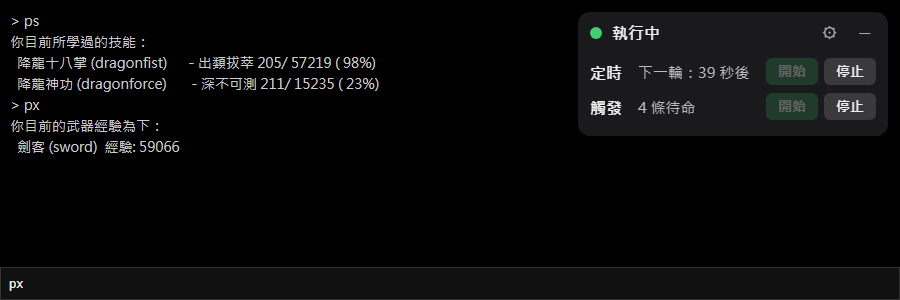
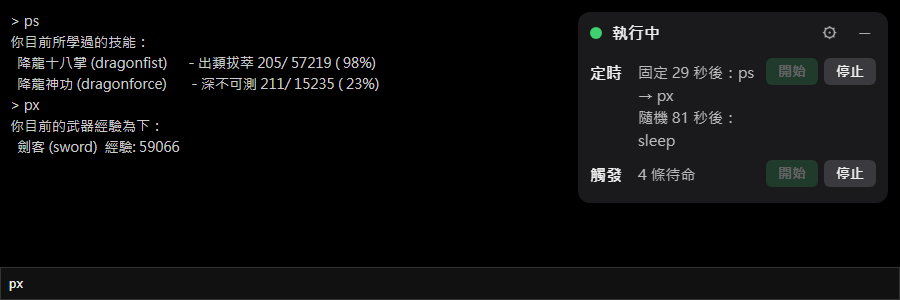
Per-command random timing and panel countdown with commands (v1.16.0)
- Random commands: each one has its own min/max seconds. Pick one uniformly
  at random, wait that command's own time, then send it, then pick again.
  Old settings (one command per line + shared seconds) are converted
  automatically; new timer-settings.js is shared by content script and popup
- Floating panel shows the countdown together with what will run: fixed
  commands ("固定 31 秒後：ps → px"), the picked random command, and each
  trigger rule waiting out its hit delay ("飲水 ≤ 200 → 3 秒後：drink")
- popup timer tab countdown includes the fixed command list; rule badge
  shows the commands of a pending hit
- Do not put randomItems in the default settings: an empty array would
  shadow the legacy fields and drop the user's saved random commands

Claude-Session: https://claude.ai/code/session_01W8X4W8aFUV8Mt9HS3hvUDu

diff --git a/catworld-auto-command/content.js b/catworld-auto-command/content.js
@@ -10,6 +10,7 @@ let lastSentAt = 0;
 let stopReason = '';
 let nextRunAt = null;
 let nextRandomAt = null;
+let nextRandomCommand = null;
 // 狀態觸發與定時循環各有獨立開關；驗證碼偵測、看門狗、送出佇列在任一個開著時都要作用
 let triggersOn = false;
 let triggerTimer = null;
@@ -225,11 +226,11 @@ let settings = {
   commands: ['ps', 'px'],
   minSeconds: 30,
   maxSeconds: 40,
-  commandDelayMs: 500,
-  randomCommands: [],
-  randomMinSeconds: 30,
-  randomMaxSeconds: 40
+  commandDelayMs: 500
+  // randomItems 不放預設值：沒有這個欄位時，normalizeRandomItems 才會去讀舊格式（randomCommands），
+  // 預設成空陣列會蓋掉升級前存下的隨機指令
 };
+const randomItems = () => CatworldTimer.normalizeRandomItems(settings);
 
 function sendCommand(command) {
   if (checkCaptcha()) return { ok: false, error: stopReason };
@@ -250,6 +251,7 @@ function sendCommand(command) {
 function clearTimers() {
   nextRunAt = null;
   nextRandomAt = null;
+  nextRandomCommand = null;
   if (loopTimer) clearTimeout(loopTimer);
   if (queueTimer) clearTimeout(queueTimer);
   if (randomTimer) clearTimeout(randomTimer);
@@ -308,19 +310,20 @@ function runRound() {
   scheduleNextRound();
 }
 
+// 隨機指令：先均勻隨機挑一個，再在「它自己的」最短～最長秒數之間隨機等一段時間，到時間才送出，然後再挑下一個
 function scheduleRandomCommand() {
   if (!running) return;
-  const min = Math.max(1, Number(settings.randomMinSeconds) || 30);
-  const max = Math.max(min, Number(settings.randomMaxSeconds) || min);
-  const delay = (min + Math.random() * (max - min)) * 1000;
-  randomTimer = setTimeout(runRandomCommand, delay);
+  const item = CatworldTimer.pickRandomItem(randomItems());
+  if (!item) return;
+  const delay = CatworldTimer.delayMs(item);
+  randomTimer = setTimeout(() => runRandomCommand(item.command), delay);
   nextRandomAt = Date.now() + delay;
+  nextRandomCommand = item.command;
 }
 
-function runRandomCommand() {
+function runRandomCommand(command) {
   if (!running) return;
-  const pool = settings.randomCommands;
-  enqueue(pool[Math.floor(Math.random() * pool.length)]);
+  enqueue(command);
   scheduleRandomCommand();
 }
 
@@ -342,7 +345,7 @@ async function start(newSettings) {
   running = true;
   await chrome.storage.local.set({ running: true, settings, nextRunAt: null, stopReason: '' });
   if (settings.commands.length) runRound();
-  if (settings.randomCommands.length) scheduleRandomCommand();
+  scheduleRandomCommand();
   renderPanel();
 }
 
@@ -439,7 +442,7 @@ function initPanel() {
       .body { padding: 0 12px 12px; }
       .line { display: flex; align-items: flex-start; gap: 8px; padding: 4px 0; }
       .line .t { font-weight: 600; min-width: 40px; padding-top: 3px; }
-      .line .s { flex: 1; min-width: 0; color: #bbb; font-size: 15px; overflow-wrap: anywhere; padding-top: 4px; }
+      .line .s { flex: 1; min-width: 0; color: #bbb; font-size: 15px; overflow-wrap: anywhere; white-space: pre-line; padding-top: 4px; }
       .line .s.alert { color: #ff8a7a; }
       .mini { display: flex; gap: 6px; flex: none; }
       .mini button { all: unset; text-align: center; padding: 3px 12px; border-radius: 6px;
@@ -468,7 +471,7 @@ function initPanel() {
   root.addEventListener('mousedown', e => e.preventDefault());
   panel.start.addEventListener('click', () => {
     if (running) return;
-    if (!settings.commands.length && !settings.randomCommands.length) {
+    if (!settings.commands.length && !randomItems().length) {
       stop('尚未設定指令，請先在 popup 設定');
       return;
     }
@@ -582,6 +585,11 @@ function triggerSummary() {
   const rules = triggerEngine.snapshot().rules.filter(rule => rule.phase !== 'off');
   const disabled = rules.filter(rule => rule.phase === 'disabled');
   if (disabled.length) return { text: `「${disabled[0].label}」${disabled[0].text}`, alert: true, disabled: disabled.length };
+  // 命中後等待延遲的規則：每條一行，顯示還有幾秒、要執行哪些指令
+  const pending = rules.filter(rule => rule.pendingSeconds !== null);
+  if (pending.length) {
+    return { text: pending.map(rule => `${rule.label} → ${rule.pendingSeconds} 秒後：${rule.commands.join(' → ')}`).join('\n'), alert: false, disabled: 0 };
+  }
   const waiting = rules.find(rule => rule.phase === 'waiting');
   if (waiting) return { text: `${waiting.label} → ${waiting.text}`, alert: false, disabled: 0 };
   return { text: `${rules.length} 條待命`, alert: false, disabled: 0 };
@@ -595,7 +603,13 @@ function renderPanel() {
   panel.label.textContent = trigger.alert ? `觸發已停用 ${trigger.disabled} 條` : active() ? '執行中' : '已停止';
   let timerText = stopReason || '未啟動';
   if (running) {
-    timerText = nextRunAt ? `下一輪：${Math.max(0, Math.ceil((nextRunAt - Date.now()) / 1000))} 秒後` : '指令送出中…';
+    // 倒數與「到時候要執行哪些指令」：固定指令一輪依序送出，隨機指令是被挑中的那一個
+    const left = at => `${Math.max(0, Math.ceil((at - Date.now()) / 1000))} 秒後`;
+    const fixed = settings.commands.map(command => command.trim()).filter(Boolean);
+    const lines = [];
+    if (fixed.length) lines.push(nextRunAt ? `固定 ${left(nextRunAt)}：${fixed.join(' → ')}` : '固定 送出中…');
+    if (nextRandomAt) lines.push(`隨機 ${left(nextRandomAt)}：${nextRandomCommand}`);
+    timerText = lines.join('\n') || '執行中';
   }
   if (panel.timerText.textContent !== timerText || panel.triggerText.textContent !== trigger.text) {
     panel.timerText.textContent = timerText;
@@ -640,6 +654,7 @@ chrome.runtime.onMessage.addListener((message, sender, sendResponse) => {
       stopReason,
       nextRunAt,
       nextRandomAt,
+      nextRandomCommand,
       triggers: { on: triggersOn, note: triggerNote, rules: triggersOn ? triggerEngine.snapshot().rules : [], stats: readAllStats() },
     });
   }

diff --git a/catworld-auto-command/popup.js b/catworld-auto-command/popup.js
@@ -18,13 +18,33 @@ async function getTab() {
   return tab;
 }
 
+// 隨機指令：每個指令一列（指令、最短、最長秒數）
+function randomRow(item) {
+  const command = element('input', { type: 'text', value: item.command, placeholder: '例：look', title: '指令' });
+  const min = element('input', { type: 'number', min: 1, value: item.minSeconds, title: '最短秒數' });
+  const max = element('input', { type: 'number', min: 1, value: item.maxSeconds, title: '最長秒數' });
+  const remove = element('button', { type: 'button', className: 'x', textContent: '✕', title: '刪除這個指令' });
+  const row = element('div', { className: 'ritem' }, field('command', command), field('min', min), field('max', max), remove);
+  remove.addEventListener('click', () => row.remove());
+  return row;
+}
+
+function renderRandomItems(items) {
+  $('randomItems').replaceChildren(...items.map(randomRow));
+}
+
+$('addRandom').addEventListener('click', () => {
+  $('randomItems').append(randomRow({ command: '', minSeconds: CatworldTimer.DEFAULT_MIN, maxSeconds: CatworldTimer.DEFAULT_MAX }));
+});
+
 function readSettings() {
   const lines = id => $(id).value.split('\n').map(x => x.trim()).filter(Boolean);
+  const get = (row, name) => row.querySelector(`[data-f="${name}"]`);
   return {
     commands: lines('commands'),
-    randomCommands: lines('randomCommands'),
-    randomMinSeconds: Number($('randomMinSeconds').value),
-    randomMaxSeconds: Number($('randomMaxSeconds').value),
+    randomItems: [...$('randomItems').children]
+      .map(row => ({ command: get(row, 'command').value.trim(), minSeconds: Number(get(row, 'min').value), maxSeconds: Number(get(row, 'max').value) }))
+      .filter(item => item.command),
     minSeconds: Number($('minSeconds').value),
     maxSeconds: Number($('maxSeconds').value),
     commandDelayMs: Number($('commandDelayMs').value)
@@ -47,7 +67,7 @@ async function send(message) {
     if (String(e?.message || e).includes('Receiving end does not exist')) {
       await chrome.scripting.executeScript({
         target: { tabId: tab.id },
-        files: ['trigger-engine.js', 'content.js']
+        files: ['trigger-engine.js', 'timer-settings.js', 'content.js']
       });
       return await chrome.tabs.sendMessage(tab.id, message);
     }
@@ -58,12 +78,13 @@ async function send(message) {
 $('start').addEventListener('click', async () => {
   try {
     const settings = readSettings();
-    if (!settings.commands.length && !settings.randomCommands.length) throw new Error('至少要有一個指令');
+    if (!settings.commands.length && !settings.randomItems.length) throw new Error('至少要有一個指令');
     if (settings.maxSeconds < settings.minSeconds) throw new Error('最長秒數不能小於最短秒數');
-    if (settings.randomMaxSeconds < settings.randomMinSeconds) throw new Error('隨機指令的最長秒數不能小於最短秒數');
+    const badRandom = settings.randomItems.find(item => item.maxSeconds < item.minSeconds);
+    if (badRandom) throw new Error(`隨機指令「${badRandom.command}」的最長秒數不能小於最短秒數`);
     await chrome.storage.local.set({ settings });
     await send({ type: 'START', settings });
-    const randomText = settings.randomCommands.length ? `；隨機：${settings.randomCommands.join(' / ')}` : '';
+    const randomText = settings.randomItems.length ? `；隨機：${settings.randomItems.map(item => item.command).join(' / ')}` : '';
     setStatus(`執行中：${settings.commands.join(' → ')}${randomText}`);
   } catch (e) { setStatus(e.message); }
 });
@@ -289,8 +310,10 @@ function renderCountdown(status) {
   const parts = [];
   if (status?.running) {
     const settings = status.settings || {};
-    if (settings.commands?.length) parts.push(`固定指令：${status.nextRunAt ? left(status.nextRunAt) : '送出中…'}`);
-    if (settings.randomCommands?.length) parts.push(`隨機指令：${status.nextRandomAt ? left(status.nextRandomAt) : '—'}`);
+    if (settings.commands?.length) parts.push(`固定指令（${settings.commands.join(' → ')}）：${status.nextRunAt ? left(status.nextRunAt) : '送出中…'}`);
+    if (CatworldTimer.normalizeRandomItems(settings).length) {
+      parts.push(`隨機指令：${status.nextRandomAt ? `${status.nextRandomCommand}，${left(status.nextRandomAt)}` : '—'}`);
+    }
   }
   $('countdown').textContent = `下一輪：${parts.length ? parts.join('　') : '—'}`;
 }
@@ -326,10 +349,9 @@ async function refreshLive() {
     $('minSeconds').value = data.settings.minSeconds ?? 30;
     $('maxSeconds').value = data.settings.maxSeconds ?? 40;
     $('commandDelayMs').value = data.settings.commandDelayMs ?? 500;
-    $('randomCommands').value = (data.settings.randomCommands || []).join('\n');
-    $('randomMinSeconds').value = data.settings.randomMinSeconds ?? 30;
-    $('randomMaxSeconds').value = data.settings.randomMaxSeconds ?? 40;
   }
+  // 舊格式（一行一個 + 共用秒數）由 normalizeRandomItems 轉成每個指令一列
+  renderRandomItems(CatworldTimer.normalizeRandomItems(data.settings));
   renderTriggerSettings(data.triggerSettings);
   showTab(data.popupTab === 'trigger' ? 'trigger' : 'timer');
   try {

diff --git a/catworld-auto-command/popup.html b/catworld-auto-command/popup.html
@@ -22,6 +22,10 @@
     .hint { font-size:11px; color:#777; margin-top:8px; line-height:1.4; }
     .hint.tight { margin-top:4px; }
 
+    .ritem { display:grid; grid-template-columns:minmax(0, 1fr) 62px 62px 22px; gap:6px; align-items:center; margin-top:6px; }
+    .ritem input { padding:6px 8px; }
+    .rhead { font-size:11px; color:#777; margin-top:2px; }
+    #addRandom { margin-top:8px; width:100%; background:#f4f4f4; }
     .tabs { display:flex; gap:4px; background:#f0f0f0; border-radius:9px; padding:3px; margin-bottom:10px; }
     .tabs button { padding:6px 0; background:transparent; color:#666; font-size:13px; }
     .tabs button[aria-selected="true"] { background:#fff; color:#222; box-shadow:0 1px 3px rgba(0,0,0,.18); }
@@ -79,12 +83,11 @@ px</textarea>
     </div>
     <label>指令間隔（毫秒）</label>
     <input id="commandDelayMs" type="number" min="0" value="500">
-    <label>隨機指令（一行一個，每次只隨機挑 1 個，獨立計時）</label>
-    <textarea id="randomCommands"></textarea>
-    <div class="row">
-      <div><label>隨機：最短秒數</label><input id="randomMinSeconds" type="number" min="1" value="30"></div>
-      <div><label>隨機：最長秒數</label><input id="randomMaxSeconds" type="number" min="1" value="40"></div>
-    </div>
+    <label>隨機指令（先隨機挑一個，等它自己的時間才送出）</label>
+    <div class="ritem rhead"><span>指令</span><span>最短（秒）</span><span>最長（秒）</span><span></span></div>
+    <div id="randomItems"></div>
+    <button id="addRandom" type="button">＋ 新增隨機指令</button>
+    <p class="hint tight">每個指令被挑中的機率一樣；秒數只決定「挑中它之後要等多久」，到時間才送出，送出後再挑下一個。</p>
     <div class="buttons">
       <button id="start">開始</button><button id="stop">停止</button>
     </div>
@@ -141,6 +144,7 @@ px</textarea>
   <button id="skills">悟招清單（新分頁開啟）</button>
   <div class="hint">新出現「請輸入上面的數字」或「請輸入上方的數字」會立即停止。請先手動完成驗證，再按開始；舊紀錄不會重複觸發。需在 CatWorld Web 分頁使用。重新整理遊戲頁後會自動停止，避免意外持續執行。</div>
   <script src="trigger-engine.js"></script>
+  <script src="timer-settings.js"></script>
   <script src="popup.js"></script>
 </body>
 </html>

diff --git a/catworld-auto-command/timer-settings.js b/catworld-auto-command/timer-settings.js
@@ -1,0 +1,41 @@
+// 定時分頁「隨機指令」的設定與抽選：不碰 DOM，content script 與 popup 共用。
+//
+// 隨機指令每個指令各有一組最短～最長秒數。流程：先從所有隨機指令裡均勻隨機挑一個，
+// 再在「它自己的」最短～最長秒數之間隨機等一段時間，到時間才送出，送出後再挑下一個。
+// 所以每個指令被挑中的機率一樣，秒數只決定「挑中它之後要等多久」。
+//
+// 舊格式（randomCommands 一行一個 + 共用的 randomMinSeconds / randomMaxSeconds）自動轉成每個指令都用那組共用秒數。
+(() => {
+if (globalThis.CatworldTimer) return;
+
+const DEFAULT_MIN = 30;
+const DEFAULT_MAX = 40;
+
+function cleanItem(raw) {
+  const command = String(raw?.command ?? '').trim();
+  if (!command) return null;
+  const minSeconds = Math.max(1, Number(raw.minSeconds) || DEFAULT_MIN);
+  const maxSeconds = Math.max(minSeconds, Number(raw.maxSeconds) || minSeconds);
+  return { command, minSeconds, maxSeconds };
+}
+
+// 回傳 [{ command, minSeconds, maxSeconds }]，沒有指令的列會被濾掉
+function normalizeRandomItems(settings = {}) {
+  if (Array.isArray(settings.randomItems)) return settings.randomItems.map(cleanItem).filter(Boolean);
+  const minSeconds = Number(settings.randomMinSeconds) || DEFAULT_MIN;
+  const maxSeconds = Number(settings.randomMaxSeconds) || DEFAULT_MAX;
+  return (settings.randomCommands || []).map(command => cleanItem({ command, minSeconds, maxSeconds })).filter(Boolean);
+}
+
+// 均勻隨機挑一個；沒有指令回 null
+function pickRandomItem(items, random = Math.random) {
+  return items.length ? items[Math.min(items.length - 1, Math.floor(random() * items.length))] : null;
+}
+
+// 這個指令從「被挑中」到「送出」要等幾毫秒
+function delayMs(item, random = Math.random) {
+  return (item.minSeconds + random() * (item.maxSeconds - item.minSeconds)) * 1000;
+}
+
+globalThis.CatworldTimer = { DEFAULT_MIN, DEFAULT_MAX, normalizeRandomItems, pickRandomItem, delayMs };
+})();

diff --git a/catworld-auto-command/trigger-engine.js b/catworld-auto-command/trigger-engine.js
@@ -264,13 +264,14 @@ function createEngine(rawConfig, io) {
         const fires = recentFires(state, now);
         const keyword = rule.kind === 'keyword';
         const count = config.limitFires ? `${fires}/${config.maxFires}` : `${fires} 次`;
+        const pendingSeconds = state.pendingUntil === null ? null : Math.max(0, Math.ceil((state.pendingUntil - now) / 1000));
         let text;
         if (state.phase === 'off') text = '未啟用';
         else if (state.phase === 'disabled') text = `已停用：${state.note}`;
-        else if (state.pendingUntil !== null) text = `命中，${Math.max(0, Math.ceil((state.pendingUntil - now) / 1000))} 秒後執行`;
+        else if (pendingSeconds !== null) text = `命中，${pendingSeconds} 秒後執行：${rule.commands.join(' → ')}`;
         else if (state.phase === 'waiting') text = keyword ? `已觸發 ${count}，冷卻中` : `已觸發 ${count}，等待回復 ${rearmText(rule)}`;
         else text = state.note || (keyword ? '待命（等待關鍵字）' : `待命（目前 ${shown(rule, state.current)}）`);
-        return { label: ruleLabel(rule), kind: rule.kind, phase: state.phase, text, rearm: keyword ? null : rearmLevel(rule), fires };
+        return { label: ruleLabel(rule), kind: rule.kind, phase: state.phase, text, rearm: keyword ? null : rearmLevel(rule), fires, commands: rule.commands, pendingSeconds };
       }),
     };
   }

diff --git a/CHANGELOG.md b/CHANGELOG.md
@@ -3,6 +3,17 @@
 `catworld-auto-command` 的版本紀錄，新的在上面。版本號規則：新功能升 minor、小修正升 patch。
 日期是 commit 的日期。沒有單獨 commit 的版本，會註明是和哪個版本一起發布的。
 
+## 1.16.0（2026-10-17，與 1.15.0 一起發布）
+
+- **面板顯示倒數與要執行的指令**：「定時」列顯示「固定 31 秒後：ps → px」和「隨機 8 秒後：look」（被挑中的那一個）；「觸發」列在命中後等待延遲時，每條規則一行顯示「飲水 ≤ 200 → 3 秒後：drink」。popup 定時分頁的倒數也帶上固定指令的內容，規則旁的標籤顯示「命中，3 秒後執行：drink」。
+
+## 1.15.0（2026-10-17，與 1.16.0 一起發布）
+
+- **隨機指令各自設定時間**：定時分頁的隨機指令改成每個指令一列，各有自己的最短／最長秒數。先均勻隨機挑一個，再等**它自己的**時間才送出，送出後再挑下一個（每個指令被挑中的機率一樣，秒數只決定挑中後要等多久）。固定指令不變。
+- 下一輪倒數會顯示隨機指令「下一個是哪個」（例如「隨機指令：look，7 秒後」）。
+- 升級時舊設定（一行一個指令 + 共用秒數）自動轉成每個指令都用原本那組共用秒數，不需要重設。
+- 新增 `timer-settings.js`（隨機指令的設定轉換與抽選），content script 與 popup 共用。
+
 ## 1.14.0（2026-10-17）
 
 - **命中後隨機延遲**：規則命中後不會馬上送出，在 0～N 秒之間隨機等一段時間再送，N 預設 5，填 0 就是不延遲。數值規則與關鍵字規則都適用；冷卻從實際送出的時間起算；延遲期間停止觸發或出現驗證碼，待送的指令作廢。面板與規則旁的標籤顯示倒數（「命中，3 秒後執行」）。

diff --git a/CLAUDE.md b/CLAUDE.md
@@ -15,6 +15,11 @@
 - 驗證碼偵測、看門狗、送出佇列在「定時或觸發任一個在跑」時都要作用（`active()`），新增會送指令的功能要接同一套；遊戲浮動視窗（`#monitor`、`#map_table`、`#macro_table`、`#setting_table`）內的變動不能當成遊戲輸出。
 - 關鍵字規則（`kind: 'keyword'`）的新文字由 `captchaObserver` 在驗證碼檢查之後交給 `engine.onText`，只取 `#content` 內新增的內容。防迴圈靠「只看新文字、冷卻中的直接丟掉、`>` 開頭的回聲行略過」三件事，改動時不能拿掉任何一個，對應測試要保留。
 
+## 定時分頁的隨機指令
+
+- 設定格式是 `settings.randomItems: [{ command, minSeconds, maxSeconds }]`，轉換與抽選在 `timer-settings.js`（content script 與 popup 共用，manifest、popup.html、popup 的備援注入都要載入，且要在 `content.js` 之前）。
+- 舊格式（`randomCommands` + `randomMinSeconds` / `randomMaxSeconds`）由 `normalizeRandomItems` 轉換；**不能在 `content.js` 的預設設定裡放 `randomItems`**，否則空陣列會蓋掉升級前存下的舊設定（測試 14i、15i 會擋）。
+
 ## 設定頁
 
 - 面板的 ⚙ 由 `background.js` 把 `popup.html?tab=<遊戲分頁 id>` 開成分頁並記在 `storage.session`，再按一次關閉；`popup.js` 看到 `?tab=` 就控制那個遊戲分頁（`getTab`）並加上 `body.page` 樣式。popup 與設定頁是同一份 HTML/JS，改一份兩邊都會變。
